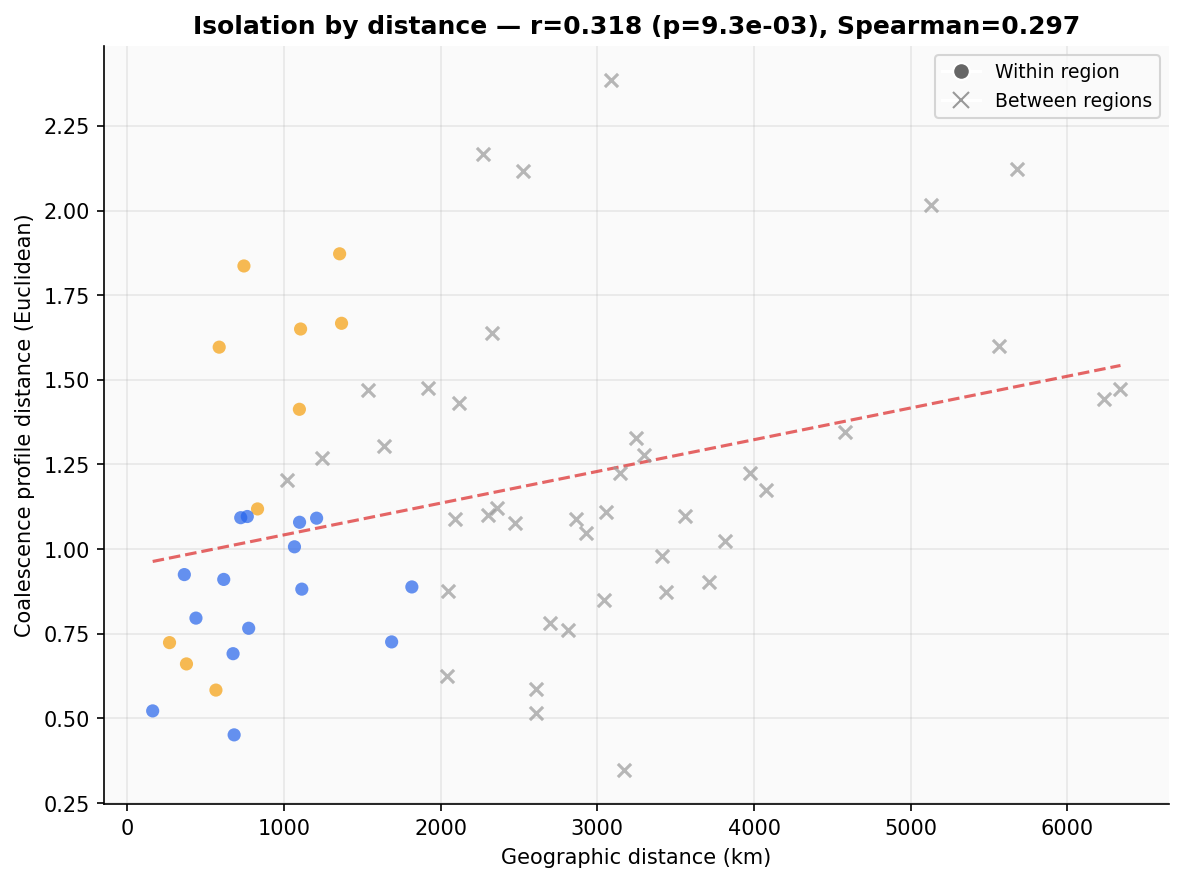
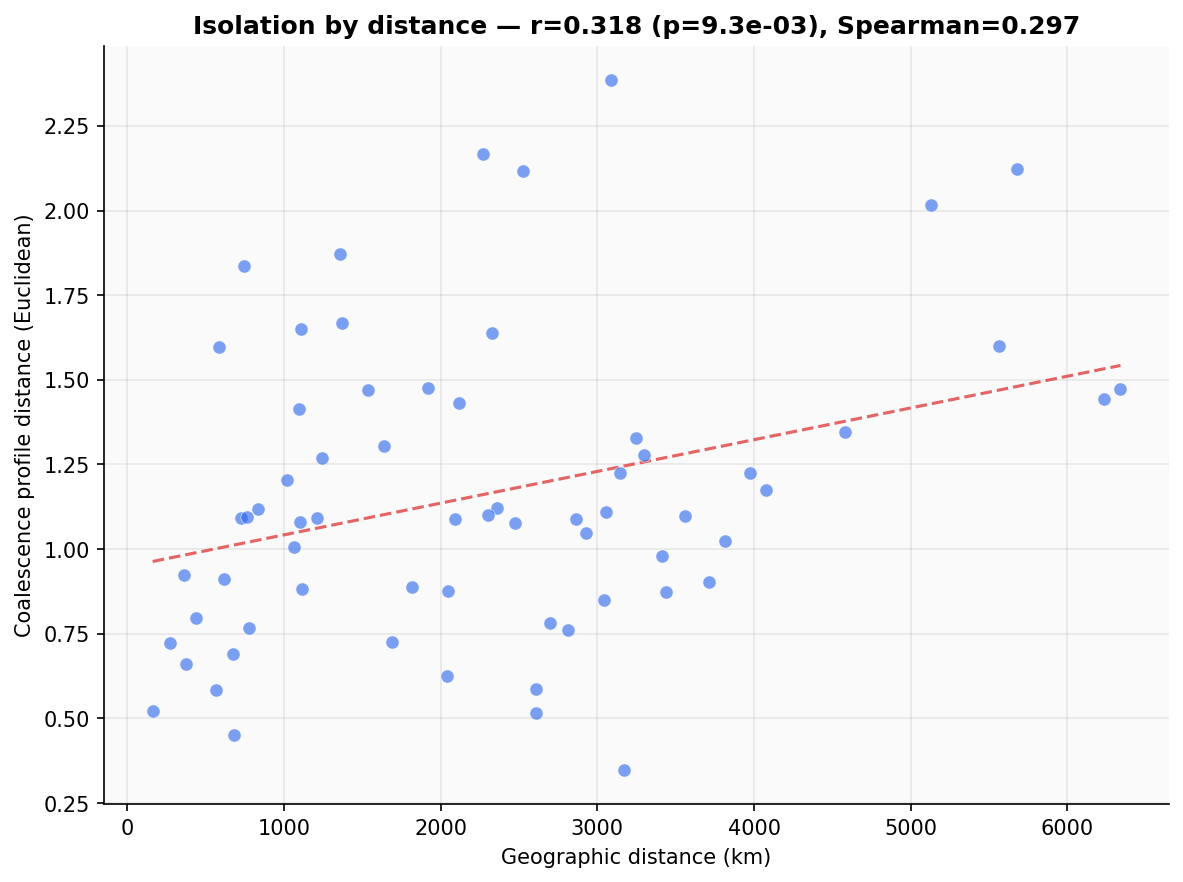
Simplify isolation-by-distance plot: remove region markers

diff --git a/experiment_burkina_faso/figures/plot_population_structure.py b/experiment_burkina_faso/figures/plot_population_structure.py
@@ -259,20 +259,8 @@ def main():
 
     fig, ax = plt.subplots(figsize=(8, 6))
 
-    # Color by region pair
-    idx = 0
-    for i in range(n):
-        for j in range(i+1, n):
-            ri, rj = REGION.get(pops[i], ""), REGION.get(pops[j], "")
-            if ri == rj:
-                c = REGION_CLR.get(ri, "#888")
-                marker = "o"
-            else:
-                c = "#999"
-                marker = "x"
-            ax.scatter(geo_dists[idx], coal_dists[idx], c=c, s=40, alpha=0.7,
-                       marker=marker, zorder=3, edgecolors="none")
-            idx += 1
+    ax.scatter(geo_dists, coal_dists, c="#2563eb", s=40, alpha=0.6,
+               zorder=3, edgecolors="white", lw=0.4)
 
     # Fit line
     z = np.polyfit(geo_dists, coal_dists, 1)
@@ -283,12 +271,6 @@ def main():
     ax.set_ylabel("Coalescence profile distance (Euclidean)")
     ax.set_title(f"Isolation by distance — r={r_pearson:.3f} (p={p_pearson:.1e}), "
                  f"Spearman={r_spearman:.3f}", fontweight="bold")
-
-    # Legend
-    within = Line2D([0], [0], marker="o", color="w", markerfacecolor="#666", markersize=8, label="Within region")
-    between = Line2D([0], [0], marker="x", color="w", markerfacecolor="#999",
-                     markeredgecolor="#999", markersize=8, label="Between regions")
-    ax.legend(handles=[within, between], fontsize=9)
 
     fig.tight_layout()
     fig.savefig(FIG_DIR / "geo_vs_coal_distance.png", dpi=150, bbox_inches="tight")